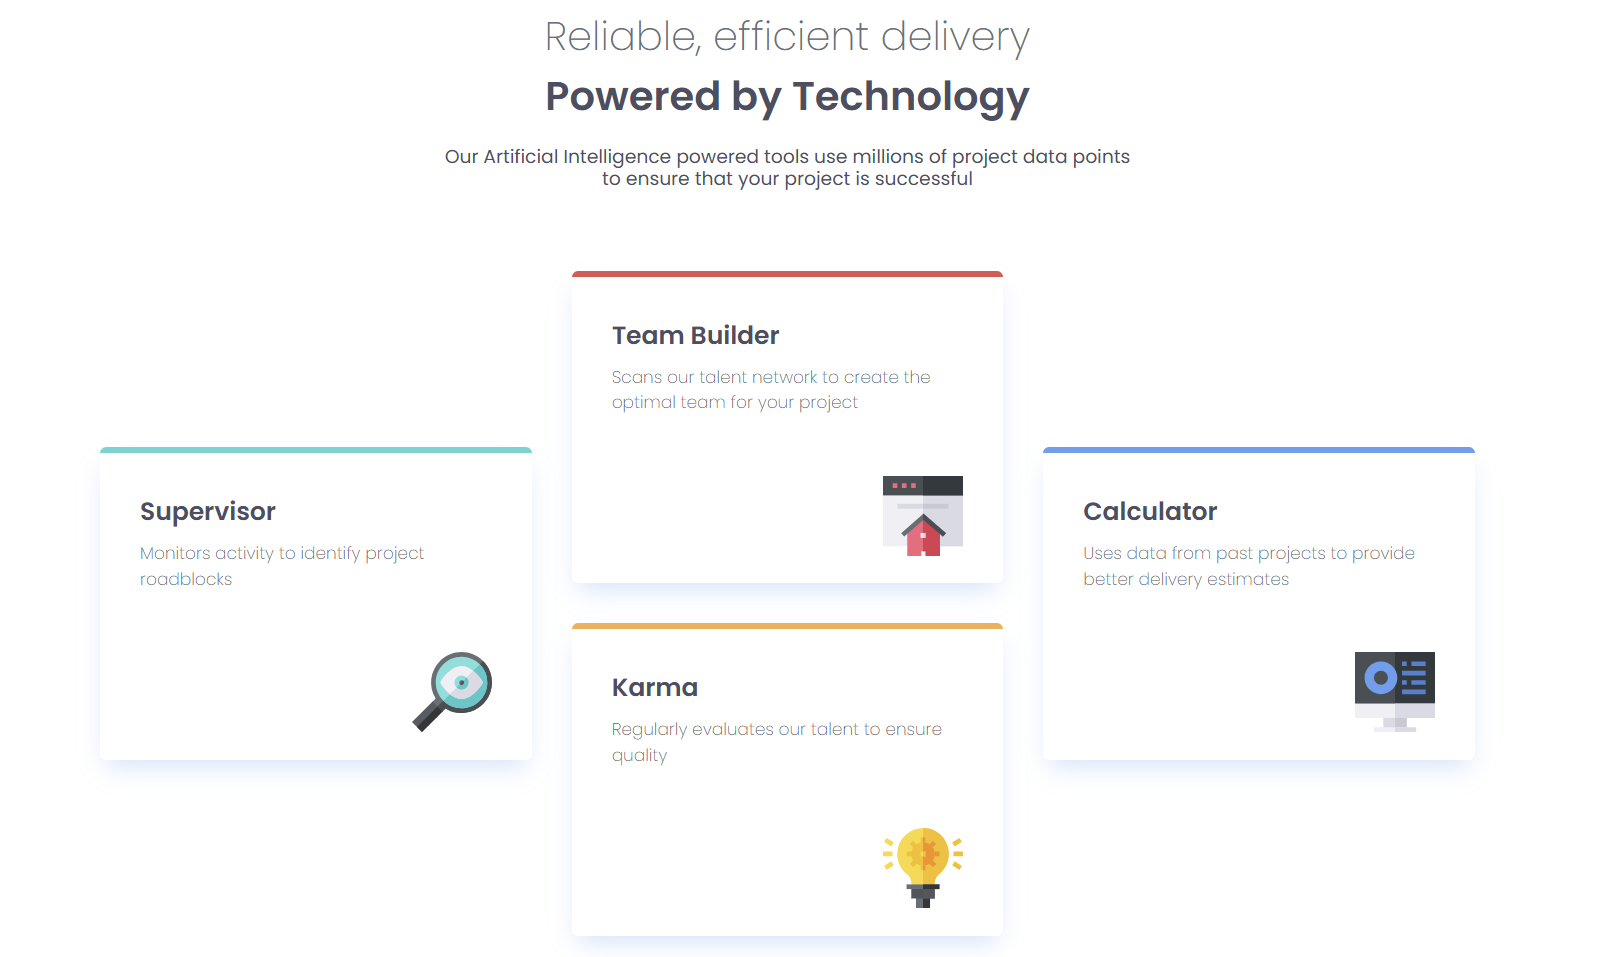
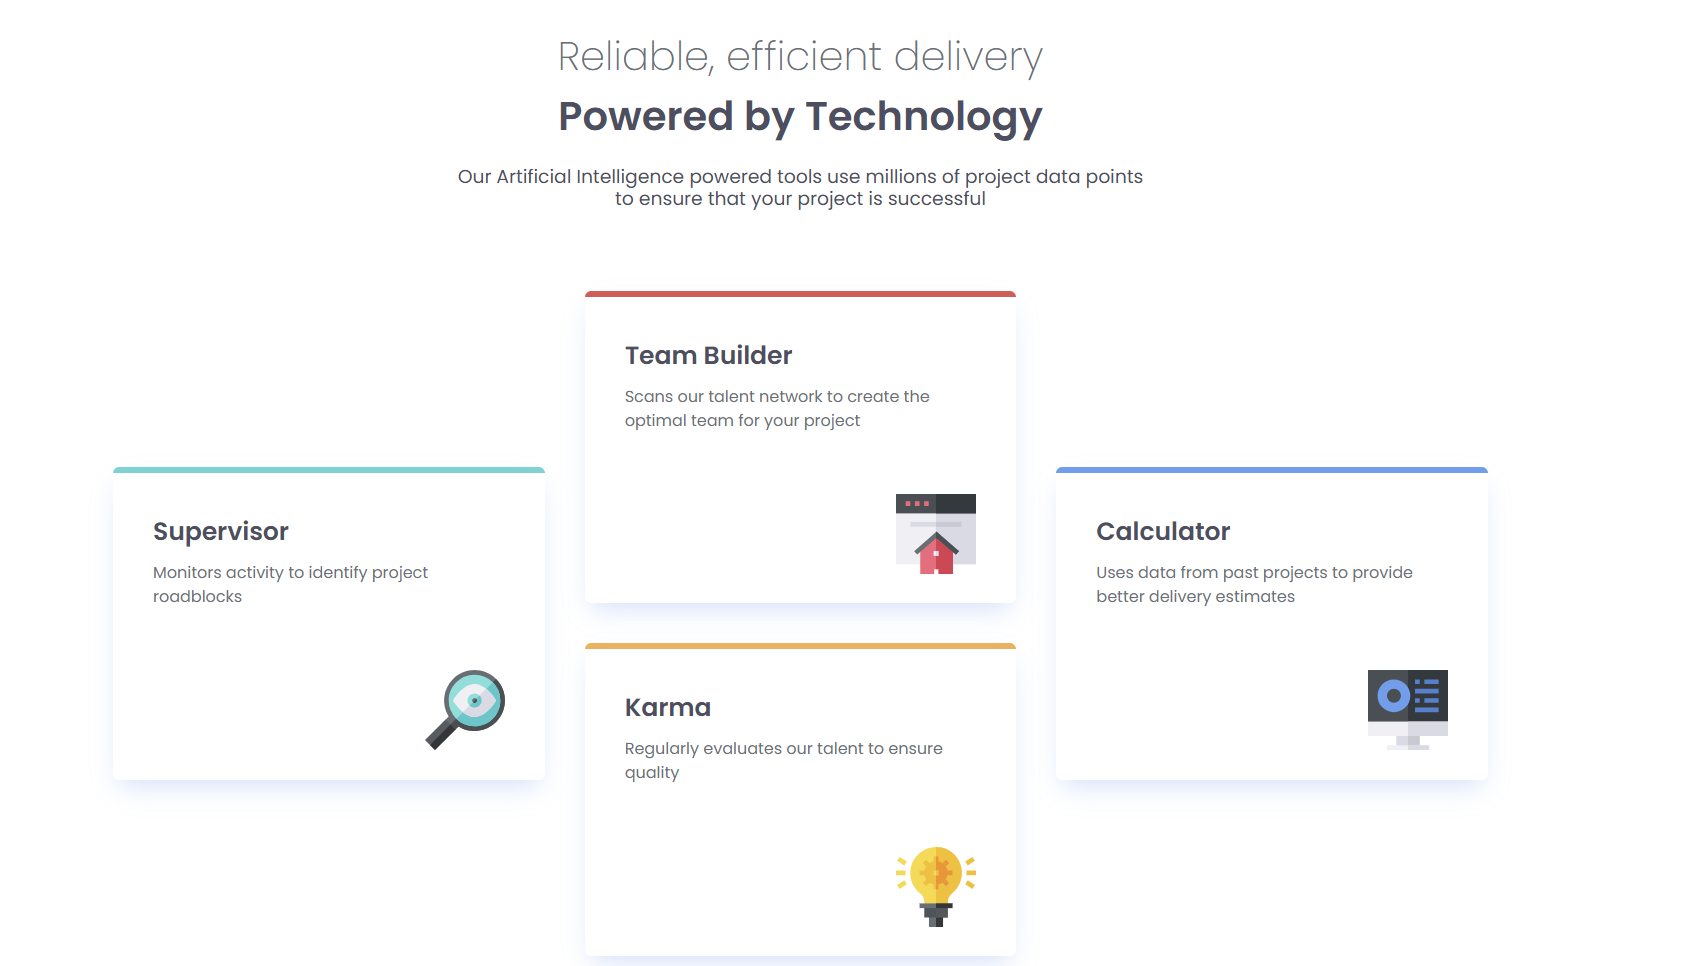
Update styling

diff --git a/styles.css b/styles.css
@@ -181,7 +181,8 @@ main{
 
   .card-heading p{
     color: var(--Grey400);
-    font-weight: 200;
+    font-size: .8rem;
+    font-weight: 400;
     line-height: 1.5;
   }
 }